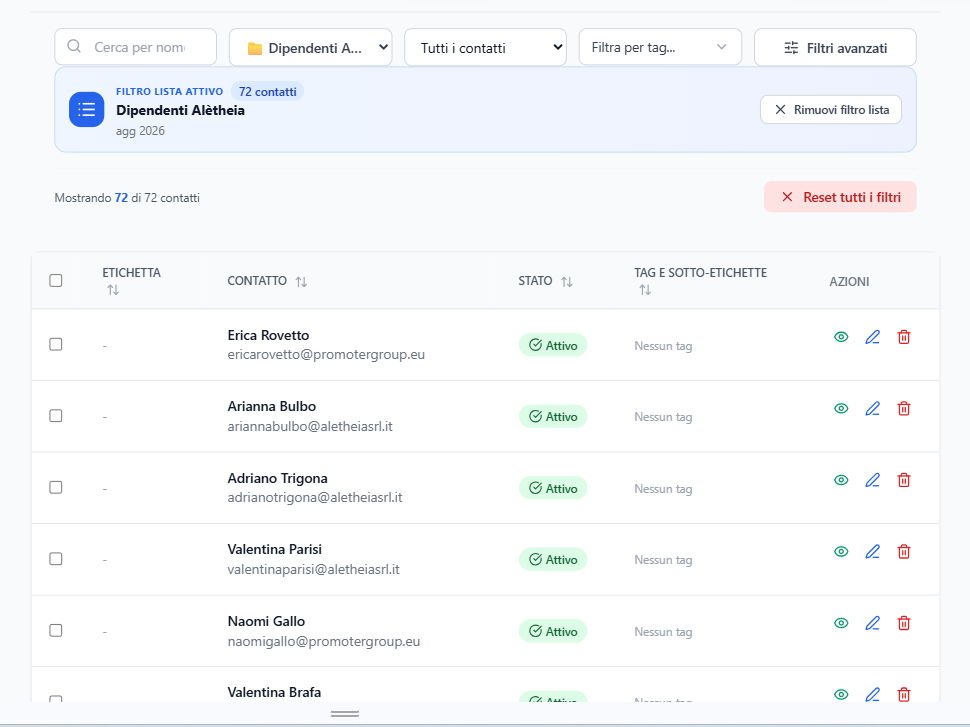
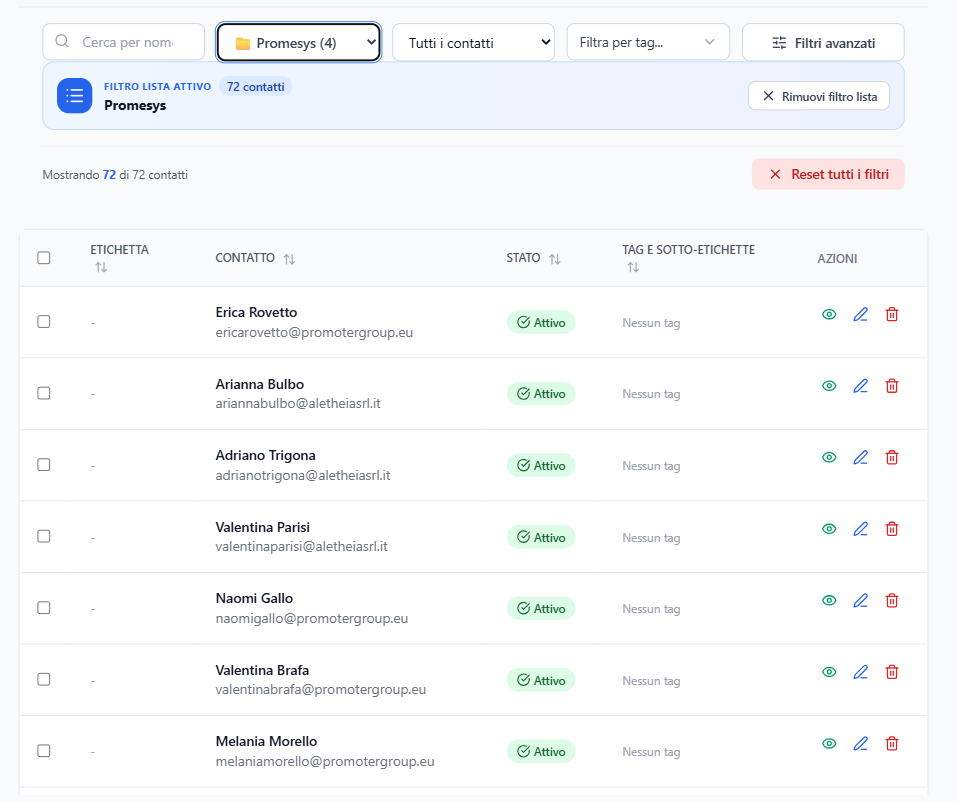
fix: hasActiveFilters helper for empty saved filters object & release v1.5.4

diff --git a/components/email/EmailPlatform.jsx b/components/email/EmailPlatform.jsx
@@ -10034,6 +10034,35 @@ const handleImportContacts = (imported) => {
   toast.success("📤 Contatti importati correttamente!");
 };
 
+  const hasActiveFilters = (rawFilters) => {
+    if (!rawFilters) return false;
+    let f = rawFilters;
+    if (typeof f === 'string') {
+      try { f = JSON.parse(f); } catch { return false; }
+    }
+    if (!f || typeof f !== 'object') return false;
+
+    if (f.searchTerm && String(f.searchTerm).trim() !== '') return true;
+    if (f.statusFilter) {
+      const val = typeof f.statusFilter === 'string' ? f.statusFilter : f.statusFilter?.value;
+      if (val && val !== 'all') return true;
+    }
+    if (Array.isArray(f.selectedTags) && f.selectedTags.length > 0) return true;
+    if (f.hasNoTagFilter) return true;
+    if (Array.isArray(f.filterSectors) && f.filterSectors.length > 0) return true;
+    if (Array.isArray(f.filterChannels) && f.filterChannels.length > 0) return true;
+    if (Array.isArray(f.filterRoles) && f.filterRoles.length > 0) return true;
+    if (Array.isArray(f.filterAreas) && f.filterAreas.length > 0) return true;
+    if (Array.isArray(f.filterTestate) && f.filterTestate.length > 0) return true;
+    if (Array.isArray(f.filterTipologie) && f.filterTipologie.length > 0) return true;
+    if (Array.isArray(f.filterPeriodicity) && f.filterPeriodicity.length > 0) return true;
+    if (Array.isArray(f.filterCoperture) && f.filterCoperture.length > 0) return true;
+    if (Array.isArray(f.filterContactLabels) && f.filterContactLabels.length > 0) return true;
+    if (Array.isArray(f.filterTagLabels) && f.filterTagLabels.length > 0) return true;
+
+    return false;
+  };
+
 // 🔍 Filtraggio ricerca + stato + lista salvata
 const filteredContacts = contacts.filter((c) => {
   if (selectedList) {
@@ -10052,18 +10081,11 @@ const filteredContacts = contacts.filter((c) => {
         return false;
       }
     } else {
-      // Se la lista salvata non ha uno snapshot fisso di ID e non ha filtri salvati specifici,
+      // Se la lista salvata non ha uno snapshot fisso di ID e non ha filtri reali attivi salvati,
       // effettua un matching intelligente per nome della lista (es. "Promesys", "Dipendenti Alètheia")
-      let hasFilters = false;
-      let rawFilters = selectedList.filters;
-      if (typeof rawFilters === 'string') {
-        try { rawFilters = JSON.parse(rawFilters); } catch { rawFilters = null; }
-      }
-      if (rawFilters && typeof rawFilters === 'object' && Object.keys(rawFilters).length > 0) {
-        hasFilters = true;
-      }
+      const activeFiltersExist = hasActiveFilters(selectedList.filters);
 
-      if (!hasFilters && selectedList.name) {
+      if (!activeFiltersExist && selectedList.name) {
         const keywords = selectedList.name
           .toLowerCase()
           .replace(/^(dipendenti|lista|gruppo|contatti|clienti)\s+/gi, '')
